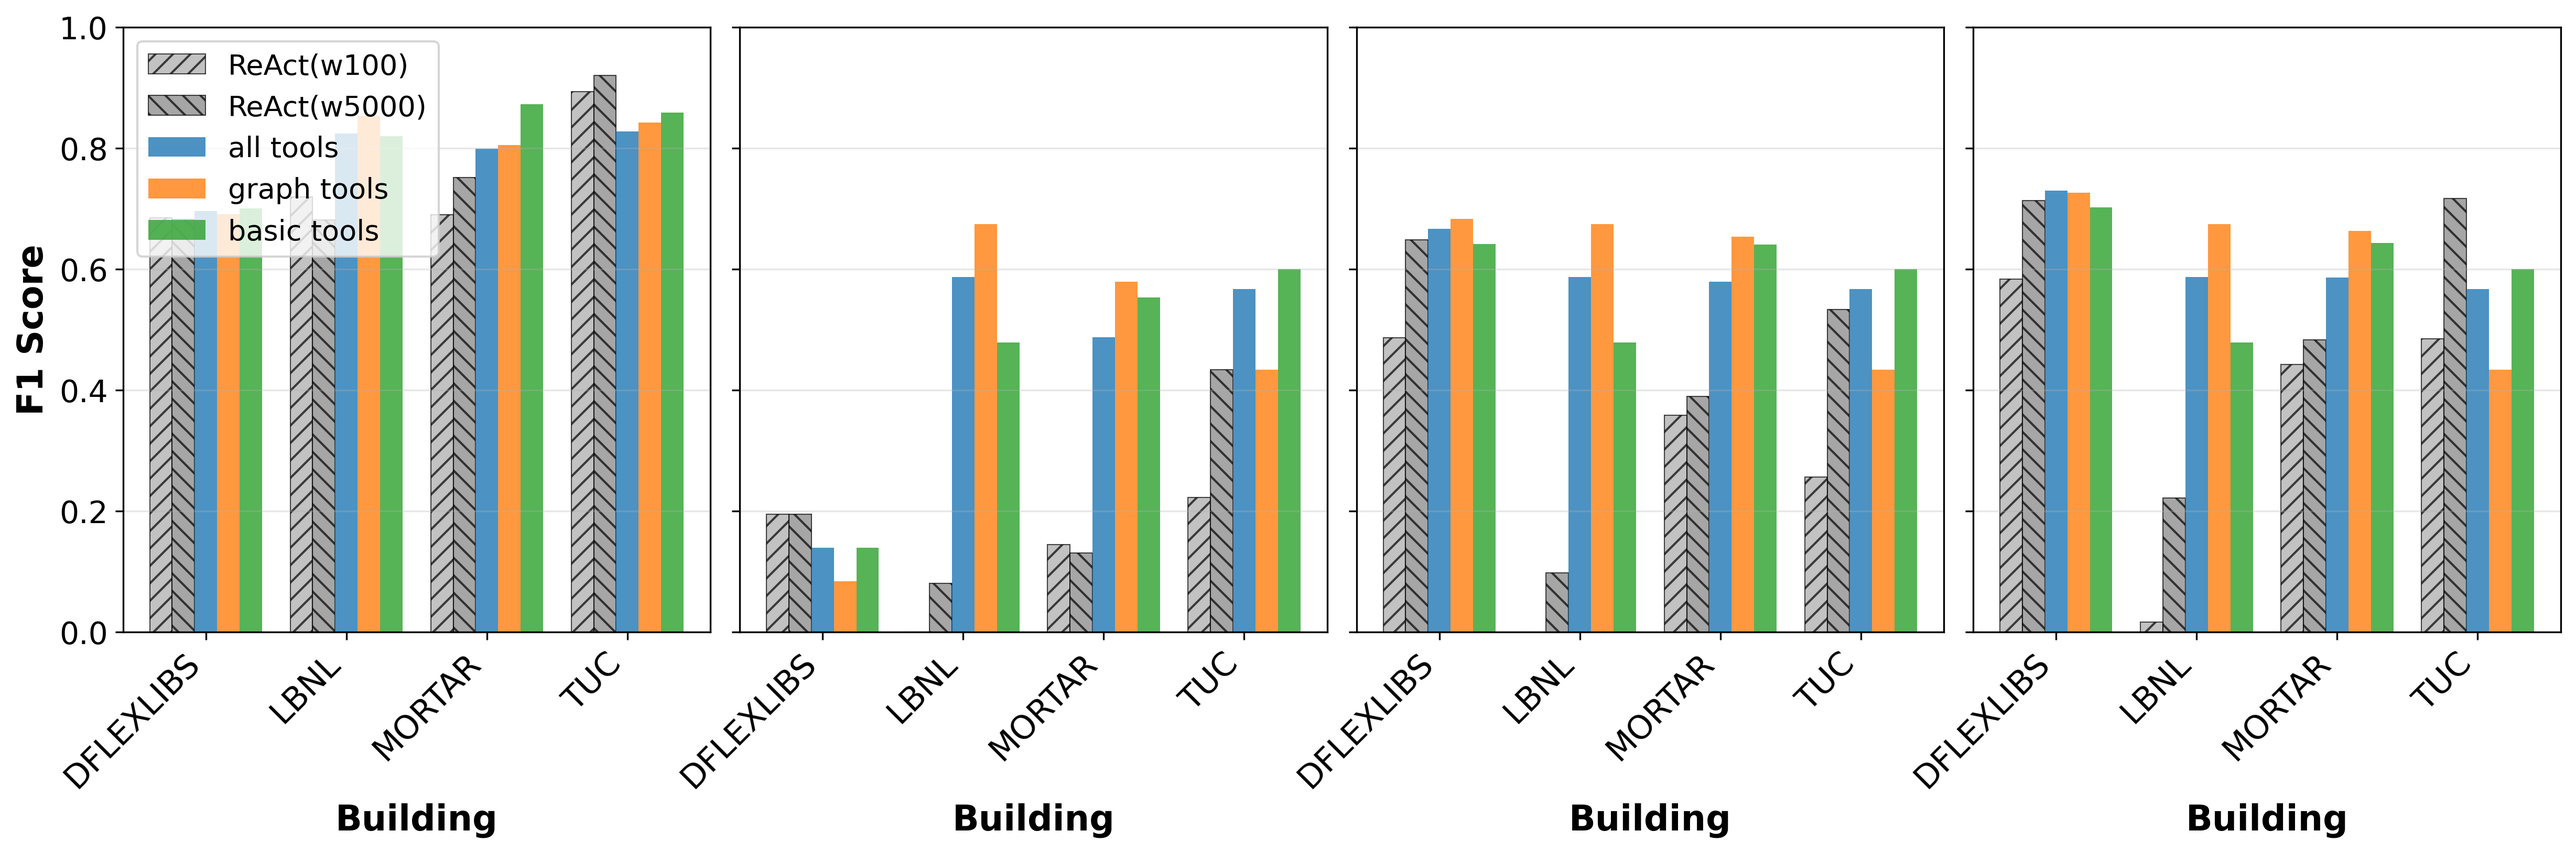
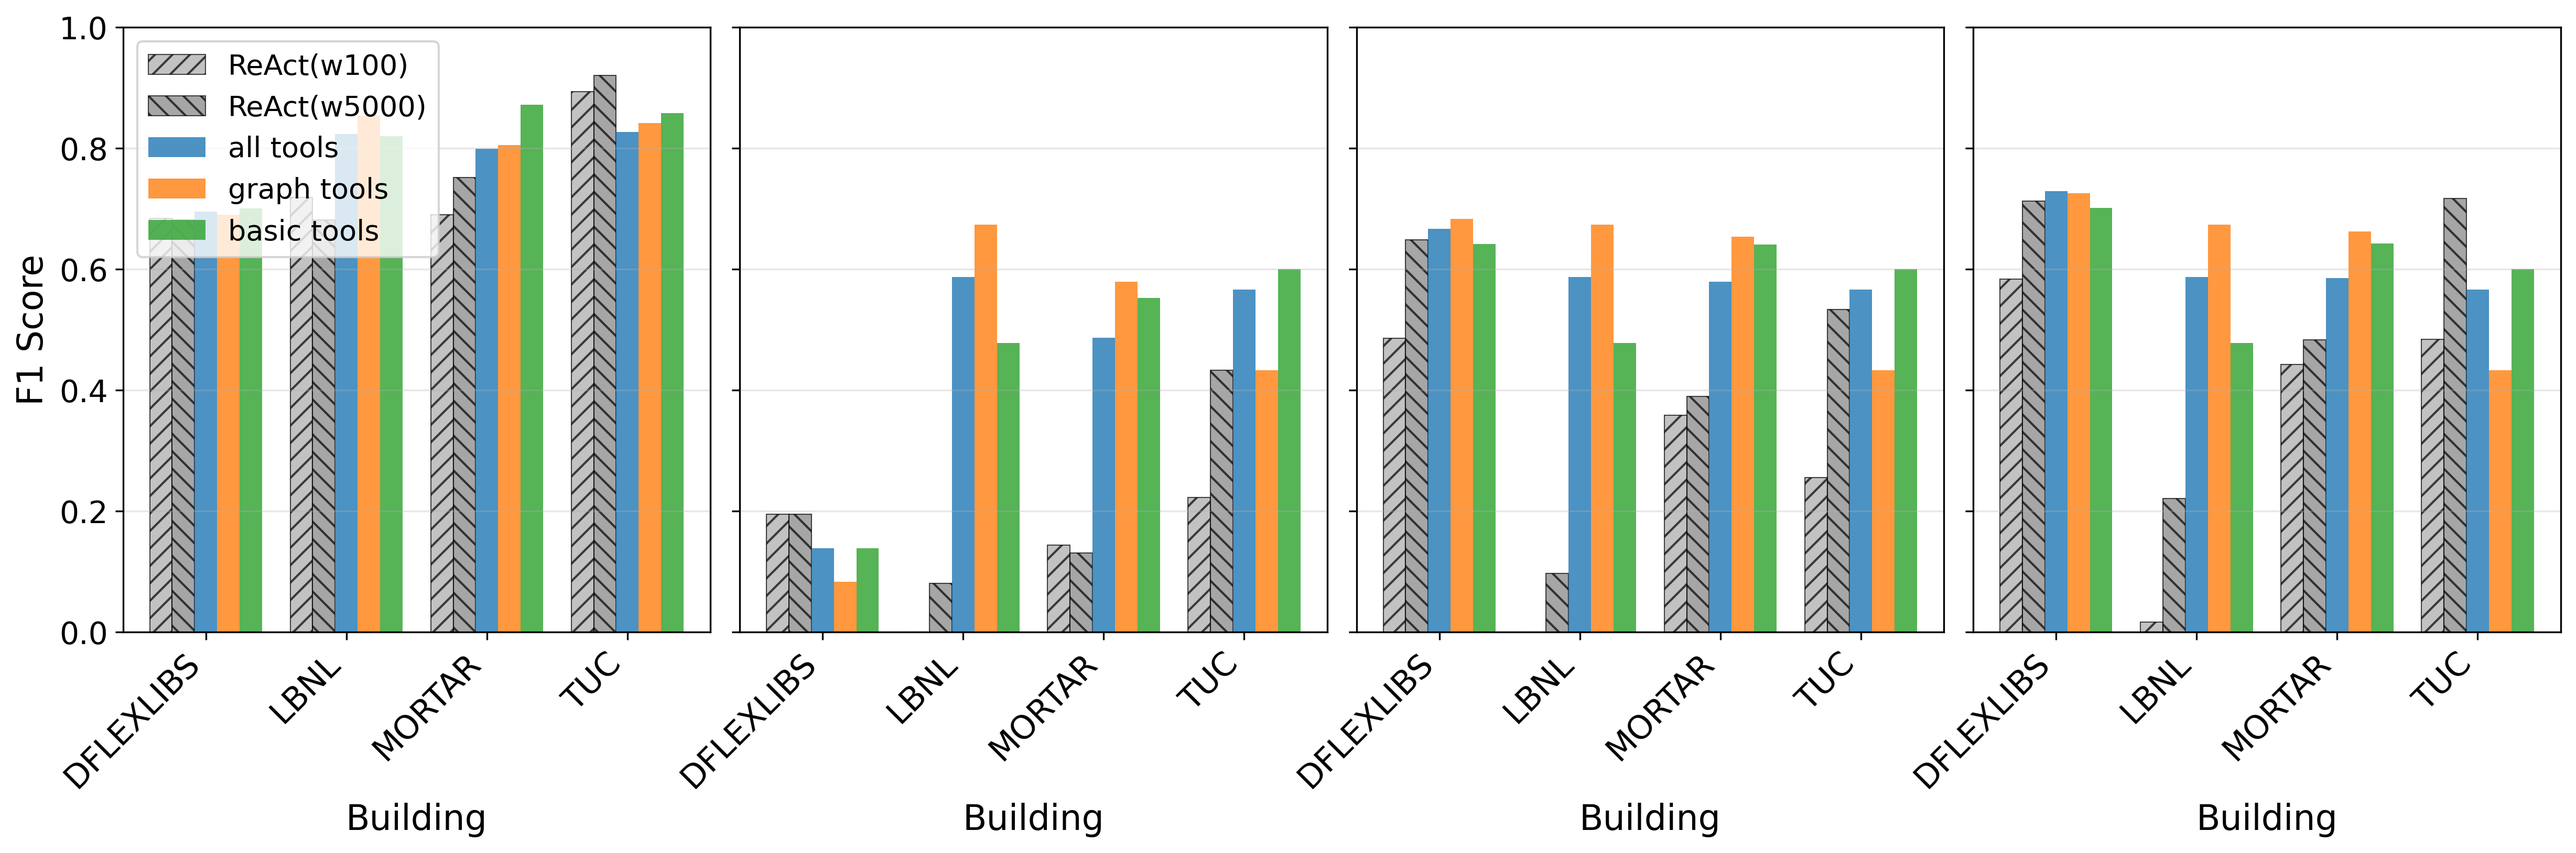
editing plot styles

diff --git a/scripts/visualize_metrics.py b/scripts/visualize_metrics.py
@@ -204,10 +204,10 @@ def plot_performance_vs_tokens_scatter(
         #            fontsize=11, alpha=0.7, 
         #            xytext=(7, 2), textcoords='offset points')
     
-    ax.set_xlabel('Mean Tokens (Millions)', fontsize=16, fontweight='bold')
-    ax.set_ylabel('Mean Row Matching F1', fontsize=16, fontweight='bold')
+    ax.set_xlabel('Mean Tokens (Millions)', fontsize=16)
+    ax.set_ylabel('Mean Row Matching F1', fontsize=16)
     # ax.set_title('Performance vs Token Usage', 
-    #              fontsize=18, fontweight='bold', pad=15)
+    #              fontsize=18, pad=15)
     ax.legend(fontsize=12, loc='best')
     ax.grid(alpha=0.3)
     # ax.set_xlim(0, 155000)
@@ -291,12 +291,12 @@ def plot_all_f1_metrics_comparison(
                    alpha=0.8, color=color)
             bar_idx += 1
         
-        ax.set_xlabel('Building', fontsize=16, fontweight='bold')
+        ax.set_xlabel('Building', fontsize=16)
         if idx == 0:
-            ax.set_ylabel('F1 Score', fontsize=16, fontweight='bold')
+            ax.set_ylabel('F1 Score', fontsize=16)
         else:
             ax.set_yticklabels([])  # Remove y-axis labels for non-leftmost plots
-        # ax.set_title(title, fontsize=18, fontweight='bold', pad=10)
+        # ax.set_title(title, fontsize=18, pad=10)
         ax.set_xticks(x)
         ax.set_xticklabels(buildings, rotation=45, ha='right', fontsize=15)
         
@@ -309,7 +309,7 @@ def plot_all_f1_metrics_comparison(
         ax.set_ylim(0, 1.0)  # Common y-axis for all F1 scores
     
     # fig.suptitle('Performance Comparison Across Metrics (Mean)', 
-    #              fontsize=22, fontweight='bold', y=1.00)
+    #              fontsize=22, y=1.00)
     plt.subplots_adjust(wspace=0.05)  # Make plots touch each other
     plt.savefig(output_path, dpi=300, bbox_inches='tight')
     print(f"Multi-panel comparison saved to: {output_path}")
